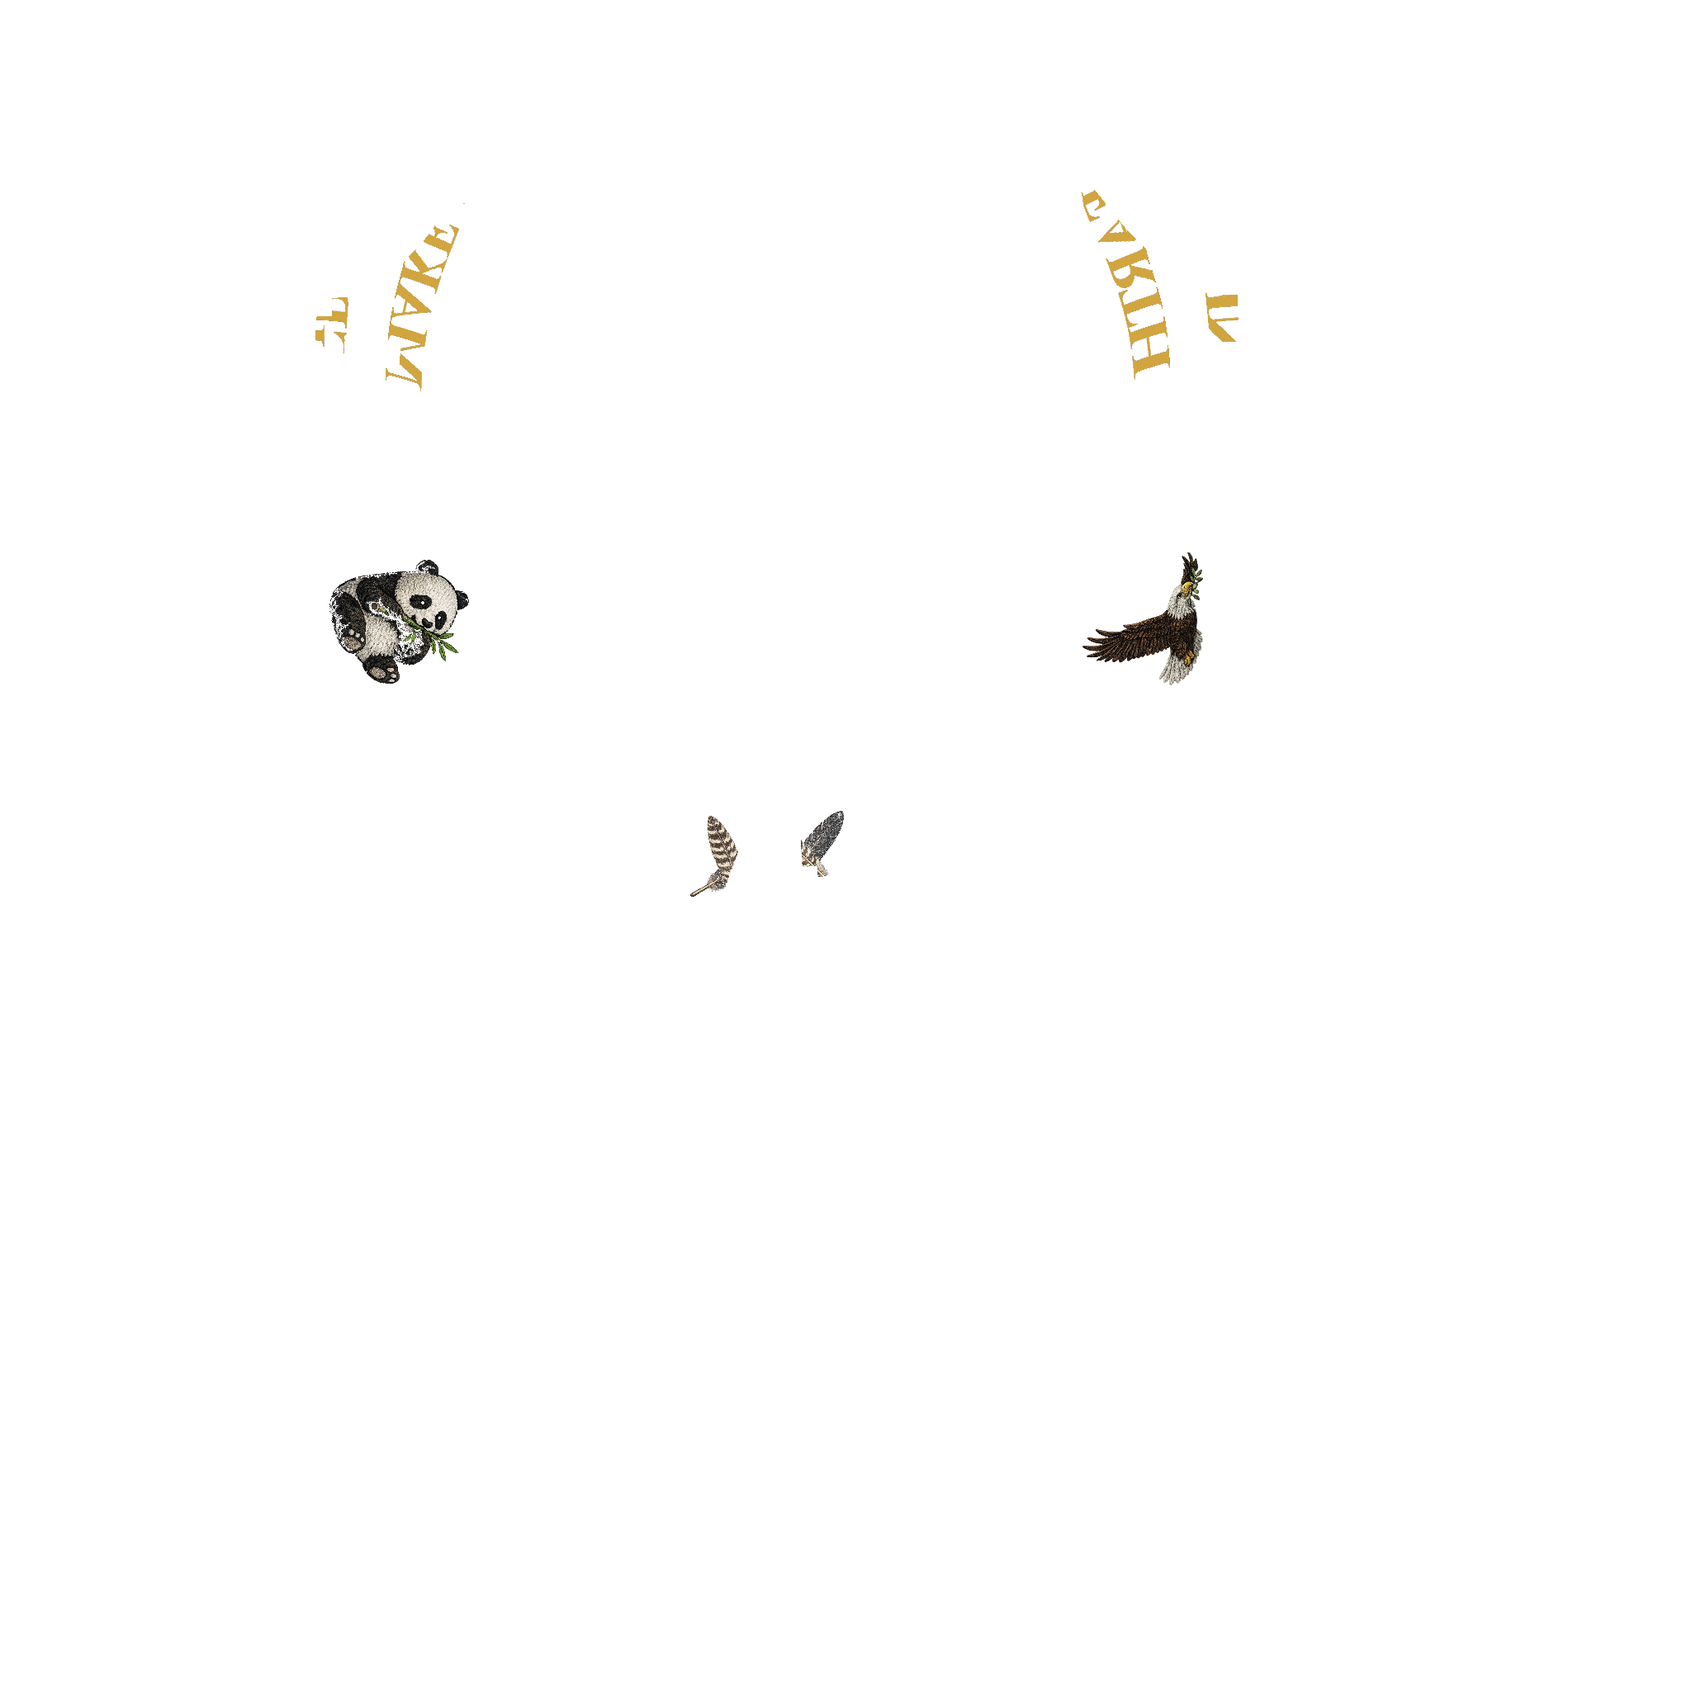
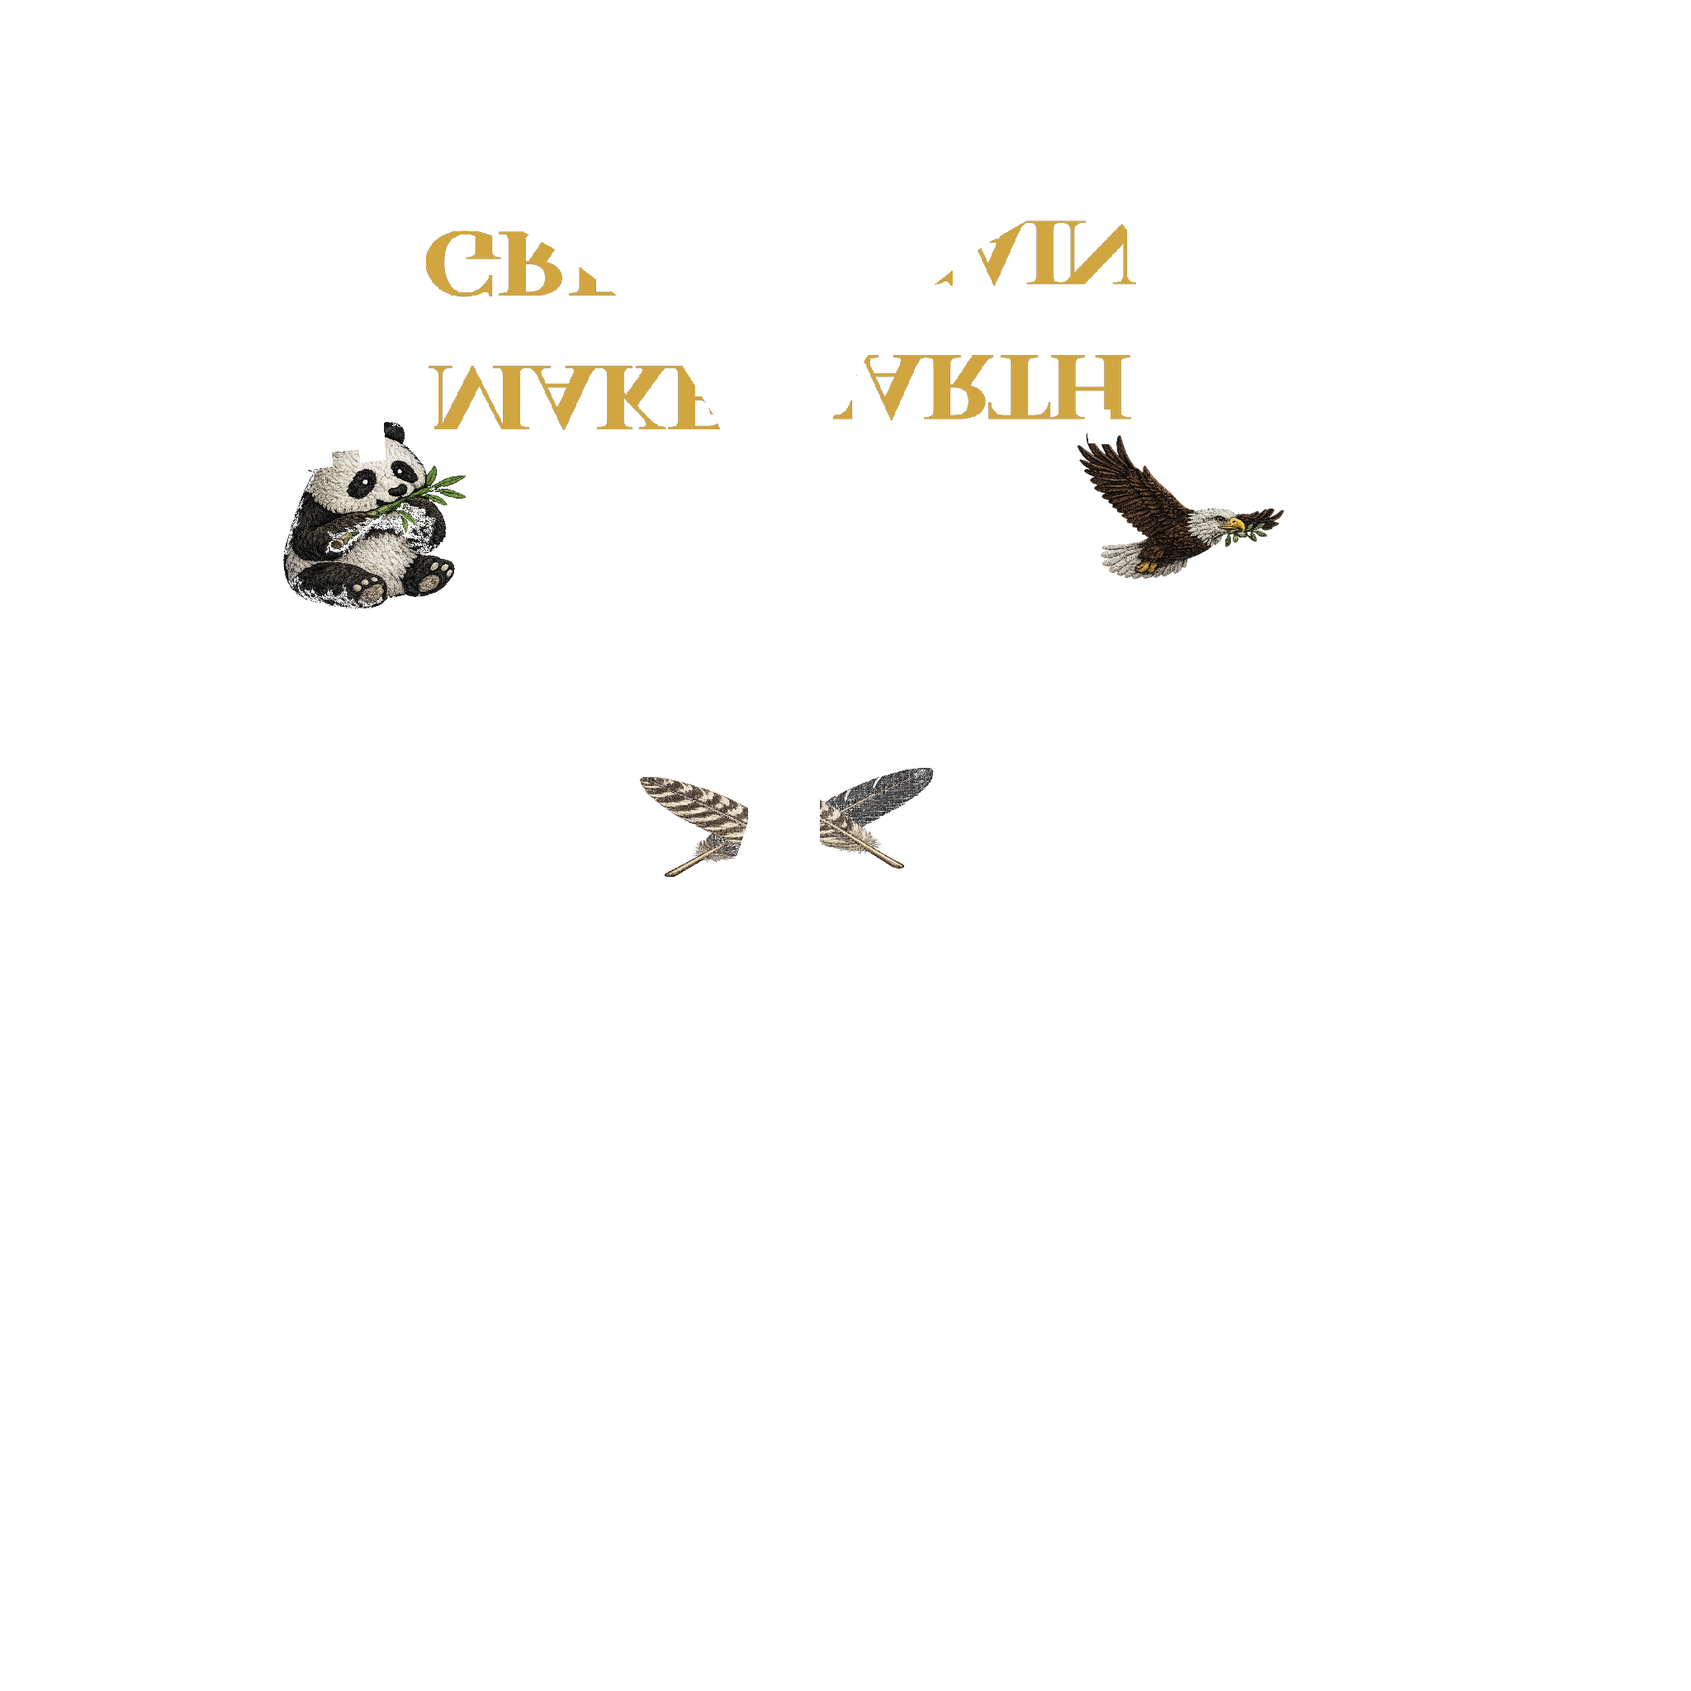
fix(hat): paint MEGA directly on cap-FRONT via UV-region painting
Switched from 3D-projection (which was bleeding onto side panels) to
direct UV painting per-panel. Each decal is mapped onto a fraction of
its target outer panel's UV bbox:

  MEGA      front face   v_frac 0.65-1.00 (V-flipped for correct reading)
  Panda     cap-LEFT     v_frac 0.45-0.70, U-frac 0.05-0.45 (cap-outer side)
  Eagle     cap-RIGHT    v_frac 0.45-0.70, U-frac 0.55-0.95 (cap-outer side)
  Feathers  cap-BACK     v_frac 0.00-0.30, split L/R at cap-center seam

Result: MEGA reads "MAKE / GREAT" top-down on the cap front like a real
MAGA cap. Side mascots and back feathers stay on their panels.

diff --git a/scripts/bake_cap_decals.py b/scripts/bake_cap_decals.py
@@ -1,22 +1,24 @@
-"""Bake decals — 3D-projection rasterizer (v3, correct mapping).
+"""Bake cap decals via DIRECT UV painting (no 3D projection).
 
-Per-triangle UV rasterization with barycentric 3D position interpolation.
-For each pixel, project 3D position orthographically onto each decal's tangent
-plane and sample the decal image. First decal whose AABB matches wins.
+Each decal is mapped onto a specific UV region of each outer panel.
+Per-panel UV bounds for the front/back/left/right zones are derived from
+the empirical inspect samples:
 
-Cap-local axes (verified):
-  -y = forward (brim), +y = back (strap), +z = up (apex)
-  bbox: x=±4.74, y=[-4.82, +4.54], z=[+0.04, +5.84]
+  outer_left  U=[0.143, 0.458], V=[0.441, 0.883]
+  outer_right U=[0.469, 0.774], V=[0.446, 0.890]
 
-Atlas mapping (verified by inspect-cap.py):
-  outer_left:  U=[0.143, 0.458], V=[0.441, 0.883]
-    front face → V≈0.44, back face → V≈0.88, apex → V≈0.73
-    cap-center seam → U≈0.43, cap-outer → U≈0.18
-  outer_right: U=[0.469, 0.774], V=[0.446, 0.890]
+  Per the corrected interpretation (mesh +y → world +z = front-facing):
+    HIGH V (≈0.88) = cap-FRONT face
+    LOW  V (≈0.44) = cap-BACK face
+    MID  V (≈0.73) = cap-APEX
+    LOW-MID V (≈0.55) = cap-side / brim-outer area
 
-Inner shells exist at V=[0.008, 0.487] — must be filtered out by island.
+The cap-center seam (x=0) is at outer_left U≈0.43 (HIGH U) and
+outer_right U≈0.48 (LOW U). The cap-outer side is at outer_left U≈0.18 (LOW)
+and outer_right U≈0.74 (HIGH).
 
-Three.js flipY=true: atlas Blender-storage py == glTF V * H, direct.
+Each decal is split into a left half (paints onto outer_left) and a right
+half (paints onto outer_right) so the two halves meet at the cap-center seam.
 """
 import bpy, time
 from mathutils import Vector
@@ -34,7 +36,7 @@ me = mainCap.data
 me.calc_loop_triangles()
 uvl = me.uv_layers.active.data
 
-# --- UV-island clustering at the polygon level ---
+# Identify outer panels via UV-island clustering
 poly_meta = []
 for poly in me.polygons:
     uv_pts = [uvl[li].uv.copy() for li in poly.loop_indices]
@@ -69,35 +71,59 @@ for (cx, cy), pids in cells.items():
         for j in range(1, len(pids)):
             union(pids[0], pids[j])
 poly_island = [find(i) for i in range(len(poly_meta))]
-# Find the two big outer-panel islands by size + V range.
 island_size = {}
 island_v_min = {}
 island_v_max = {}
+island_x_avg = {}
+island_x_count = {}
 for i, p in enumerate(poly_meta):
     iid = poly_island[i]
     island_size[iid] = island_size.get(iid, 0) + 1
     island_v_min[iid] = min(island_v_min.get(iid, 1.0), p['uv_min'][1])
     island_v_max[iid] = max(island_v_max.get(iid, 0.0), p['uv_max'][1])
 big = sorted(island_size.items(), key=lambda kv: kv[1], reverse=True)
-outer_islands = set()
+outer_iids = []
 for iid, _ in big:
     if island_v_min[iid] > 0.4 and island_v_max[iid] > 0.7:
-        outer_islands.add(iid)
-    if len(outer_islands) >= 2: break
-print(f'islands: {len(island_size)} | big-6: {[(iid, island_size[iid], round(island_v_min[iid],3), round(island_v_max[iid],3)) for iid, _ in big]}')
-print(f'outer panels selected: {len(outer_islands)}')
+        outer_iids.append(iid)
+    if len(outer_iids) >= 2: break
 
-tris = []
+# Determine which is left vs right by looking at 3D x-centroid
+def island_x_centroid(iid):
+    polys = [i for i, p in enumerate(poly_meta) if poly_island[i] == iid]
+    cx = 0; n = 0
+    for pi in polys:
+        poly = me.polygons[pi]
+        for vi in poly.vertices:
+            cx += me.vertices[vi].co.x
+            n += 1
+    return cx / n if n else 0.0
+iid_left = min(outer_iids, key=island_x_centroid)
+iid_right = max(outer_iids, key=island_x_centroid)
+print(f'outer_left island_id={iid_left}, outer_right island_id={iid_right}')
+
+# Compute exact UV bbox for each outer panel
+def panel_bbox(iid):
+    us, vs = [], []
+    for i, p in enumerate(poly_meta):
+        if poly_island[i] == iid:
+            us.append(p['uv_min'][0]); us.append(p['uv_max'][0])
+            vs.append(p['uv_min'][1]); vs.append(p['uv_max'][1])
+    return (min(us), min(vs), max(us), max(vs))
+
+bbox_L = panel_bbox(iid_left)
+bbox_R = panel_bbox(iid_right)
+print(f'outer_left  UV bbox: U=[{bbox_L[0]:.4f}, {bbox_L[2]:.4f}] V=[{bbox_L[1]:.4f}, {bbox_L[3]:.4f}]')
+print(f'outer_right UV bbox: U=[{bbox_R[0]:.4f}, {bbox_R[2]:.4f}] V=[{bbox_R[1]:.4f}, {bbox_R[3]:.4f}]')
+
+# Each panel's tris
+tris_by_iid = {iid_left: [], iid_right: []}
 for t in me.loop_triangles:
-    if poly_island[t.polygon_index] not in outer_islands:
-        continue
-    uvs = [uvl[li].uv.copy() for li in t.loops]
-    p3 = [me.vertices[vi].co.copy() for vi in t.vertices]
-    cx_ = (p3[0].x + p3[1].x + p3[2].x) / 3
-    cy_ = (p3[0].y + p3[1].y + p3[2].y) / 3
-    cz_ = (p3[0].z + p3[1].z + p3[2].z) / 3
-    tris.append({'uvs': uvs, 'p3': p3, 'cx': cx_, 'cy': cy_, 'cz': cz_})
-print(f'outer-panel tris: {len(tris)}')
+    iid = poly_island[t.polygon_index]
+    if iid in tris_by_iid:
+        uvs = [uvl[li].uv.copy() for li in t.loops]
+        tris_by_iid[iid].append(uvs)
+print(f'tris: outer_left={len(tris_by_iid[iid_left])}, outer_right={len(tris_by_iid[iid_right])}')
 
 def load_decal(path):
     img = bpy.data.images.load(path, check_existing=False)
@@ -112,127 +138,140 @@ dimg = {
 }
 
 def sample(img, sx, sy):
-    if sx < 0.0 or sx >= 1.0 or sy < 0.0 or sy >= 1.0:
-        return None
-    px = int(sx * img['w'])
-    py = int(sy * img['h'])
-    if px >= img['w']: px = img['w'] - 1
-    if py >= img['h']: py = img['h'] - 1
+    if sx < 0.0 or sx >= 1.0 or sy < 0.0 or sy >= 1.0: return None
+    px = min(img['w']-1, int(sx * img['w']))
+    py = min(img['h']-1, int(sy * img['h']))
     idx = (py * img['w'] + px) * 4
     p = img['pixels']
     return (p[idx], p[idx+1], p[idx+2], p[idx+3])
 
-# Disjoint zones: any pixel matches at most ONE decal.
-#   front face (y < -1.5): MEGA
-#   back face (y > +1.5):
-#     |x| < 1.0 → feathers (back-center)
-#     +1.0 < x → eagle (back-cap-right, viewer-LEFT in back view)
-#     x < -1.0 → panda (back-cap-left, viewer-RIGHT in back view)
-# MEGA aspect 1024:407 ≈ 2.515.
-
-decals = [
-    # FRONT face (mesh +y). MAKE EARTH GREAT AGAIN — bold, fills the front
-    # like a Trump MAGA cap. Positioned just above the brim line.
-    dict(name='mega', img=dimg['mega'],
-         center=Vector((0.0, +3.5, 2.0)),
-         du=Vector((+1, 0, 0)), dv=Vector((0, 0, 1)),
-         half_w=3.0, half_h=3.0/2.515,
-         x_lo=-3.5, x_hi=+3.5, y_lo=+1.5, y_hi=+5.0, z_lo=0.5, z_hi=3.5),
-    # CAP-LEFT side panel (mesh -x). Embroidered mascot, well-proportioned.
-    dict(name='panda', img=dimg['panda'],
-         center=Vector((-3.7, 0.0, 1.8)),
-         du=Vector((0, -1, 0)), dv=Vector((0, 0, 1)),
-         half_w=1.1, half_h=1.1,
-         x_lo=-5.0, x_hi=-1.8, y_lo=-1.4, y_hi=+1.4, z_lo=0.5, z_hi=3.2),
-    # CAP-RIGHT side panel (mesh +x). Mirror of panda.
-    dict(name='eagle', img=dimg['eagle'],
-         center=Vector((+3.7, 0.0, 1.8)),
-         du=Vector((0, +1, 0)), dv=Vector((0, 0, 1)),
-         half_w=1.1, half_h=1.1,
-         x_lo=+1.8, x_hi=+5.0, y_lo=-1.4, y_hi=+1.4, z_lo=0.5, z_hi=3.2),
-    # BACK panel center (mesh -y). Crossed feathers — proportional embroidery.
-    dict(name='feathers', img=dimg['feathers'],
-         center=Vector((0.0, -3.7, 1.8)),
-         du=Vector((+1, 0, 0)), dv=Vector((0, 0, 1)),
-         half_w=1.4, half_h=1.4,
-         x_lo=-1.6, x_hi=+1.6, y_lo=-5.0, y_hi=-1.8, z_lo=0.5, z_hi=3.2),
-]
-
 atlas = [0.0] * (TEX * TEX * 4)
-hits = {d['name']: 0 for d in decals}
 
 def edge(ax, ay, bx, by, cx, cy):
     return (bx-ax)*(cy-ay) - (by-ay)*(cx-ax)
 
+def paint_decal_on_panel(tris_list, panel_bbox,
+                         u_lo_frac, u_hi_frac, v_lo_frac, v_hi_frac,
+                         decal_img, ds_lo, ds_hi, dt_lo, dt_hi,
+                         flip_v=False):
+    """Paint a decal slice into a UV sub-rectangle of a panel.
+    panel_bbox: (u_min, v_min, u_max, v_max) of panel UV
+    *_frac:    0..1 fractions of panel bbox where decal is placed
+    decal_img: dict with 'pixels', 'w', 'h'
+    ds_lo, ds_hi, dt_lo, dt_hi: 0..1 slice of the decal image to use (sx, sy)
+    """
+    u_min, v_min, u_max, v_max = panel_bbox
+    bw, bh = u_max - u_min, v_max - v_min
+    target_u_lo = u_min + u_lo_frac * bw
+    target_u_hi = u_min + u_hi_frac * bw
+    target_v_lo = v_min + v_lo_frac * bh
+    target_v_hi = v_min + v_hi_frac * bh
+
+    hits = 0
+    for uvs in tris_list:
+        # rasterize in atlas pixel space, but only where pixel UV is in target
+        px0, py0 = uvs[0].x*TEX, uvs[0].y*TEX
+        px1, py1 = uvs[1].x*TEX, uvs[1].y*TEX
+        px2, py2 = uvs[2].x*TEX, uvs[2].y*TEX
+        pxmin = max(0, int(min(px0, px1, px2)))
+        pxmax = min(TEX-1, int(max(px0, px1, px2)) + 1)
+        pymin = max(0, int(min(py0, py1, py2)))
+        pymax = min(TEX-1, int(max(py0, py1, py2)) + 1)
+        # quick reject: tri's UV bbox doesn't overlap target
+        u0 = min(px0, px1, px2) / TEX
+        u1 = max(px0, px1, px2) / TEX
+        v0 = min(py0, py1, py2) / TEX
+        v1 = max(py0, py1, py2) / TEX
+        if u1 < target_u_lo or u0 > target_u_hi or v1 < target_v_lo or v0 > target_v_hi:
+            continue
+        area = edge(px0, py0, px1, py1, px2, py2)
+        if abs(area) < 1e-9: continue
+        inv_area = 1.0 / area
+        for py in range(pymin, pymax + 1):
+            v_atlas = (py + 0.5) / TEX
+            if v_atlas < target_v_lo or v_atlas >= target_v_hi: continue
+            for px in range(pxmin, pxmax + 1):
+                u_atlas = (px + 0.5) / TEX
+                if u_atlas < target_u_lo or u_atlas >= target_u_hi: continue
+                w0 = edge(px1, py1, px2, py2, px+0.5, py+0.5) * inv_area
+                w1 = edge(px2, py2, px0, py0, px+0.5, py+0.5) * inv_area
+                w2 = edge(px0, py0, px1, py1, px+0.5, py+0.5) * inv_area
+                if w0 < 0 or w1 < 0 or w2 < 0: continue
+                # Decal sample fractions within target rect
+                fu = (u_atlas - target_u_lo) / (target_u_hi - target_u_lo)
+                fv = (v_atlas - target_v_lo) / (target_v_hi - target_v_lo)
+                sx = ds_lo + fu * (ds_hi - ds_lo)
+                sy = dt_lo + fv * (dt_hi - dt_lo)
+                if flip_v: sy = dt_lo + dt_hi - sy
+                rgba = sample(decal_img, sx, sy)
+                if rgba is None or rgba[3] < 0.02: continue
+                i = (py * TEX + px) * 4
+                a = rgba[3]
+                inv = 1.0 - a
+                atlas[i]   = rgba[0] * a + atlas[i]   * inv
+                atlas[i+1] = rgba[1] * a + atlas[i+1] * inv
+                atlas[i+2] = rgba[2] * a + atlas[i+2] * inv
+                atlas[i+3] = a + atlas[i+3] * inv
+                hits += 1
+    return hits
+
+# ============================================================
+# UV mapping per panel (verified by inspect-cap.py):
+# - HIGH V (~0.88) = cap-FRONT face
+# - LOW V (~0.44) = cap-BACK face (where strap is)
+# - MID-LOW V (~0.55) = cap-side/brim-outer area
+# - HIGH U on outer_left = cap-CENTER seam (low x = cap-outer)
+# - LOW U on outer_right = cap-CENTER seam (high x = cap-outer)
+# ============================================================
 t0 = time.time()
-n_used = 0
-for ti, tri in enumerate(tris):
-    if ti % 4000 == 0:
-        print(f'  tri {ti}/{len(tris)} ({time.time()-t0:.1f}s) used={n_used}')
-    cx_, cy_, cz_ = tri['cx'], tri['cy'], tri['cz']
-    eligible = []
-    for d in decals:
-        if d['x_lo']-0.4 <= cx_ <= d['x_hi']+0.4 and \
-           d['y_lo']-0.4 <= cy_ <= d['y_hi']+0.4 and \
-           d['z_lo']-0.4 <= cz_ <= d['z_hi']+0.4:
-            eligible.append(d)
-    if not eligible:
-        continue
-    n_used += 1
+hit_log = {}
 
-    uvs = tri['uvs']; p3 = tri['p3']
-    px0, py0 = uvs[0].x*TEX, uvs[0].y*TEX
-    px1, py1 = uvs[1].x*TEX, uvs[1].y*TEX
-    px2, py2 = uvs[2].x*TEX, uvs[2].y*TEX
-    pxmin = max(0, int(min(px0, px1, px2)))
-    pxmax = min(TEX-1, int(max(px0, px1, px2)) + 1)
-    pymin = max(0, int(min(py0, py1, py2)))
-    pymax = min(TEX-1, int(max(py0, py1, py2)) + 1)
-    if pxmax < pxmin or pymax < pymin: continue
+# MEGA on cap-FRONT (HIGH V). Wider V band so text is readable, narrower U
+# to keep on visible front face (avoid side bleed).
+# Front face is HIGH V (~0.88). Use v_frac 0.65-1.00 for taller text.
+hit_log['mega_L'] = paint_decal_on_panel(
+    tris_by_iid[iid_left], bbox_L,
+    u_lo_frac=0.30, u_hi_frac=1.00, v_lo_frac=0.65, v_hi_frac=1.00,
+    decal_img=dimg['mega'], ds_lo=0.0, ds_hi=0.5, dt_lo=0.0, dt_hi=1.0,
+    flip_v=True)
+hit_log['mega_R'] = paint_decal_on_panel(
+    tris_by_iid[iid_right], bbox_R,
+    u_lo_frac=0.00, u_hi_frac=0.70, v_lo_frac=0.65, v_hi_frac=1.00,
+    decal_img=dimg['mega'], ds_lo=0.5, ds_hi=1.0, dt_lo=0.0, dt_hi=1.0,
+    flip_v=True)
 
-    area = edge(px0, py0, px1, py1, px2, py2)
-    if abs(area) < 1e-9: continue
-    inv_area = 1.0 / area
-    p0, p1, p2 = p3[0], p3[1], p3[2]
+# PANDA on cap-LEFT side panel. The cap-LEFT-side area is at LOW-MID V (around 0.55-0.65)
+# of outer_left panel where the U is at the LOW side (cap-outer = LOW U).
+# Whole panda decal on outer_left, low-mid V band.
+hit_log['panda'] = paint_decal_on_panel(
+    tris_by_iid[iid_left], bbox_L,
+    u_lo_frac=0.05, u_hi_frac=0.45, v_lo_frac=0.45, v_hi_frac=0.70,
+    decal_img=dimg['panda'], ds_lo=0.0, ds_hi=1.0, dt_lo=0.0, dt_hi=1.0,
+    flip_v=False)
 
-    for py in range(pymin, pymax + 1):
-        py_c = py + 0.5
-        for px in range(pxmin, pxmax + 1):
-            px_c = px + 0.5
-            w0 = edge(px1, py1, px2, py2, px_c, py_c) * inv_area
-            w1 = edge(px2, py2, px0, py0, px_c, py_c) * inv_area
-            w2 = edge(px0, py0, px1, py1, px_c, py_c) * inv_area
-            if w0 < 0 or w1 < 0 or w2 < 0: continue
-            wx = p0.x*w0 + p1.x*w1 + p2.x*w2
-            wy = p0.y*w0 + p1.y*w1 + p2.y*w2
-            wz = p0.z*w0 + p1.z*w1 + p2.z*w2
+# EAGLE on cap-RIGHT side panel. Mirror of panda — outer_right, HIGH U (cap-outer).
+hit_log['eagle'] = paint_decal_on_panel(
+    tris_by_iid[iid_right], bbox_R,
+    u_lo_frac=0.55, u_hi_frac=0.95, v_lo_frac=0.45, v_hi_frac=0.70,
+    decal_img=dimg['eagle'], ds_lo=0.0, ds_hi=1.0, dt_lo=0.0, dt_hi=1.0,
+    flip_v=False)
 
-            for d in eligible:
-                if not (d['x_lo'] <= wx <= d['x_hi']): continue
-                if not (d['y_lo'] <= wy <= d['y_hi']): continue
-                if not (d['z_lo'] <= wz <= d['z_hi']): continue
-                rx = wx - d['center'].x
-                ry = wy - d['center'].y
-                rz = wz - d['center'].z
-                u_d = (rx*d['du'].x + ry*d['du'].y + rz*d['du'].z) / d['half_w']
-                v_d = (rx*d['dv'].x + ry*d['dv'].y + rz*d['dv'].z) / d['half_h']
-                if -1.0 <= u_d <= 1.0 and -1.0 <= v_d <= 1.0:
-                    sx = (u_d + 1.0) * 0.5
-                    sy = (v_d + 1.0) * 0.5
-                    rgba = sample(d['img'], sx, sy)
-                    if rgba is None or rgba[3] < 0.02: continue
-                    i = (py * TEX + px) * 4
-                    a = rgba[3]
-                    inv = 1.0 - a
-                    atlas[i]   = rgba[0] * a + atlas[i]   * inv
-                    atlas[i+1] = rgba[1] * a + atlas[i+1] * inv
-                    atlas[i+2] = rgba[2] * a + atlas[i+2] * inv
-                    atlas[i+3] = a + atlas[i+3] * inv
-                    hits[d['name']] += 1
-                    break
+# FEATHERS on cap-BACK center. Paint left half of decal on outer_left at HIGH U
+# (cap-center seam), right half on outer_right at LOW U.
+# v_frac 0.0-0.20 = cap-back face (low V on each panel)
+hit_log['feathers_L'] = paint_decal_on_panel(
+    tris_by_iid[iid_left], bbox_L,
+    u_lo_frac=0.50, u_hi_frac=0.95, v_lo_frac=0.00, v_hi_frac=0.30,
+    decal_img=dimg['feathers'], ds_lo=0.0, ds_hi=0.5, dt_lo=0.0, dt_hi=1.0,
+    flip_v=False)
+hit_log['feathers_R'] = paint_decal_on_panel(
+    tris_by_iid[iid_right], bbox_R,
+    u_lo_frac=0.05, u_hi_frac=0.50, v_lo_frac=0.00, v_hi_frac=0.30,
+    decal_img=dimg['feathers'], ds_lo=0.5, ds_hi=1.0, dt_lo=0.0, dt_hi=1.0,
+    flip_v=False)
 
 print(f'\nbake done in {time.time()-t0:.1f}s')
-for k, v in hits.items():
+for k, v in hit_log.items():
     print(f'  {k}: {v}')
 
 img = bpy.data.images.new('cap_decals_atlas', width=TEX, height=TEX, alpha=True)
